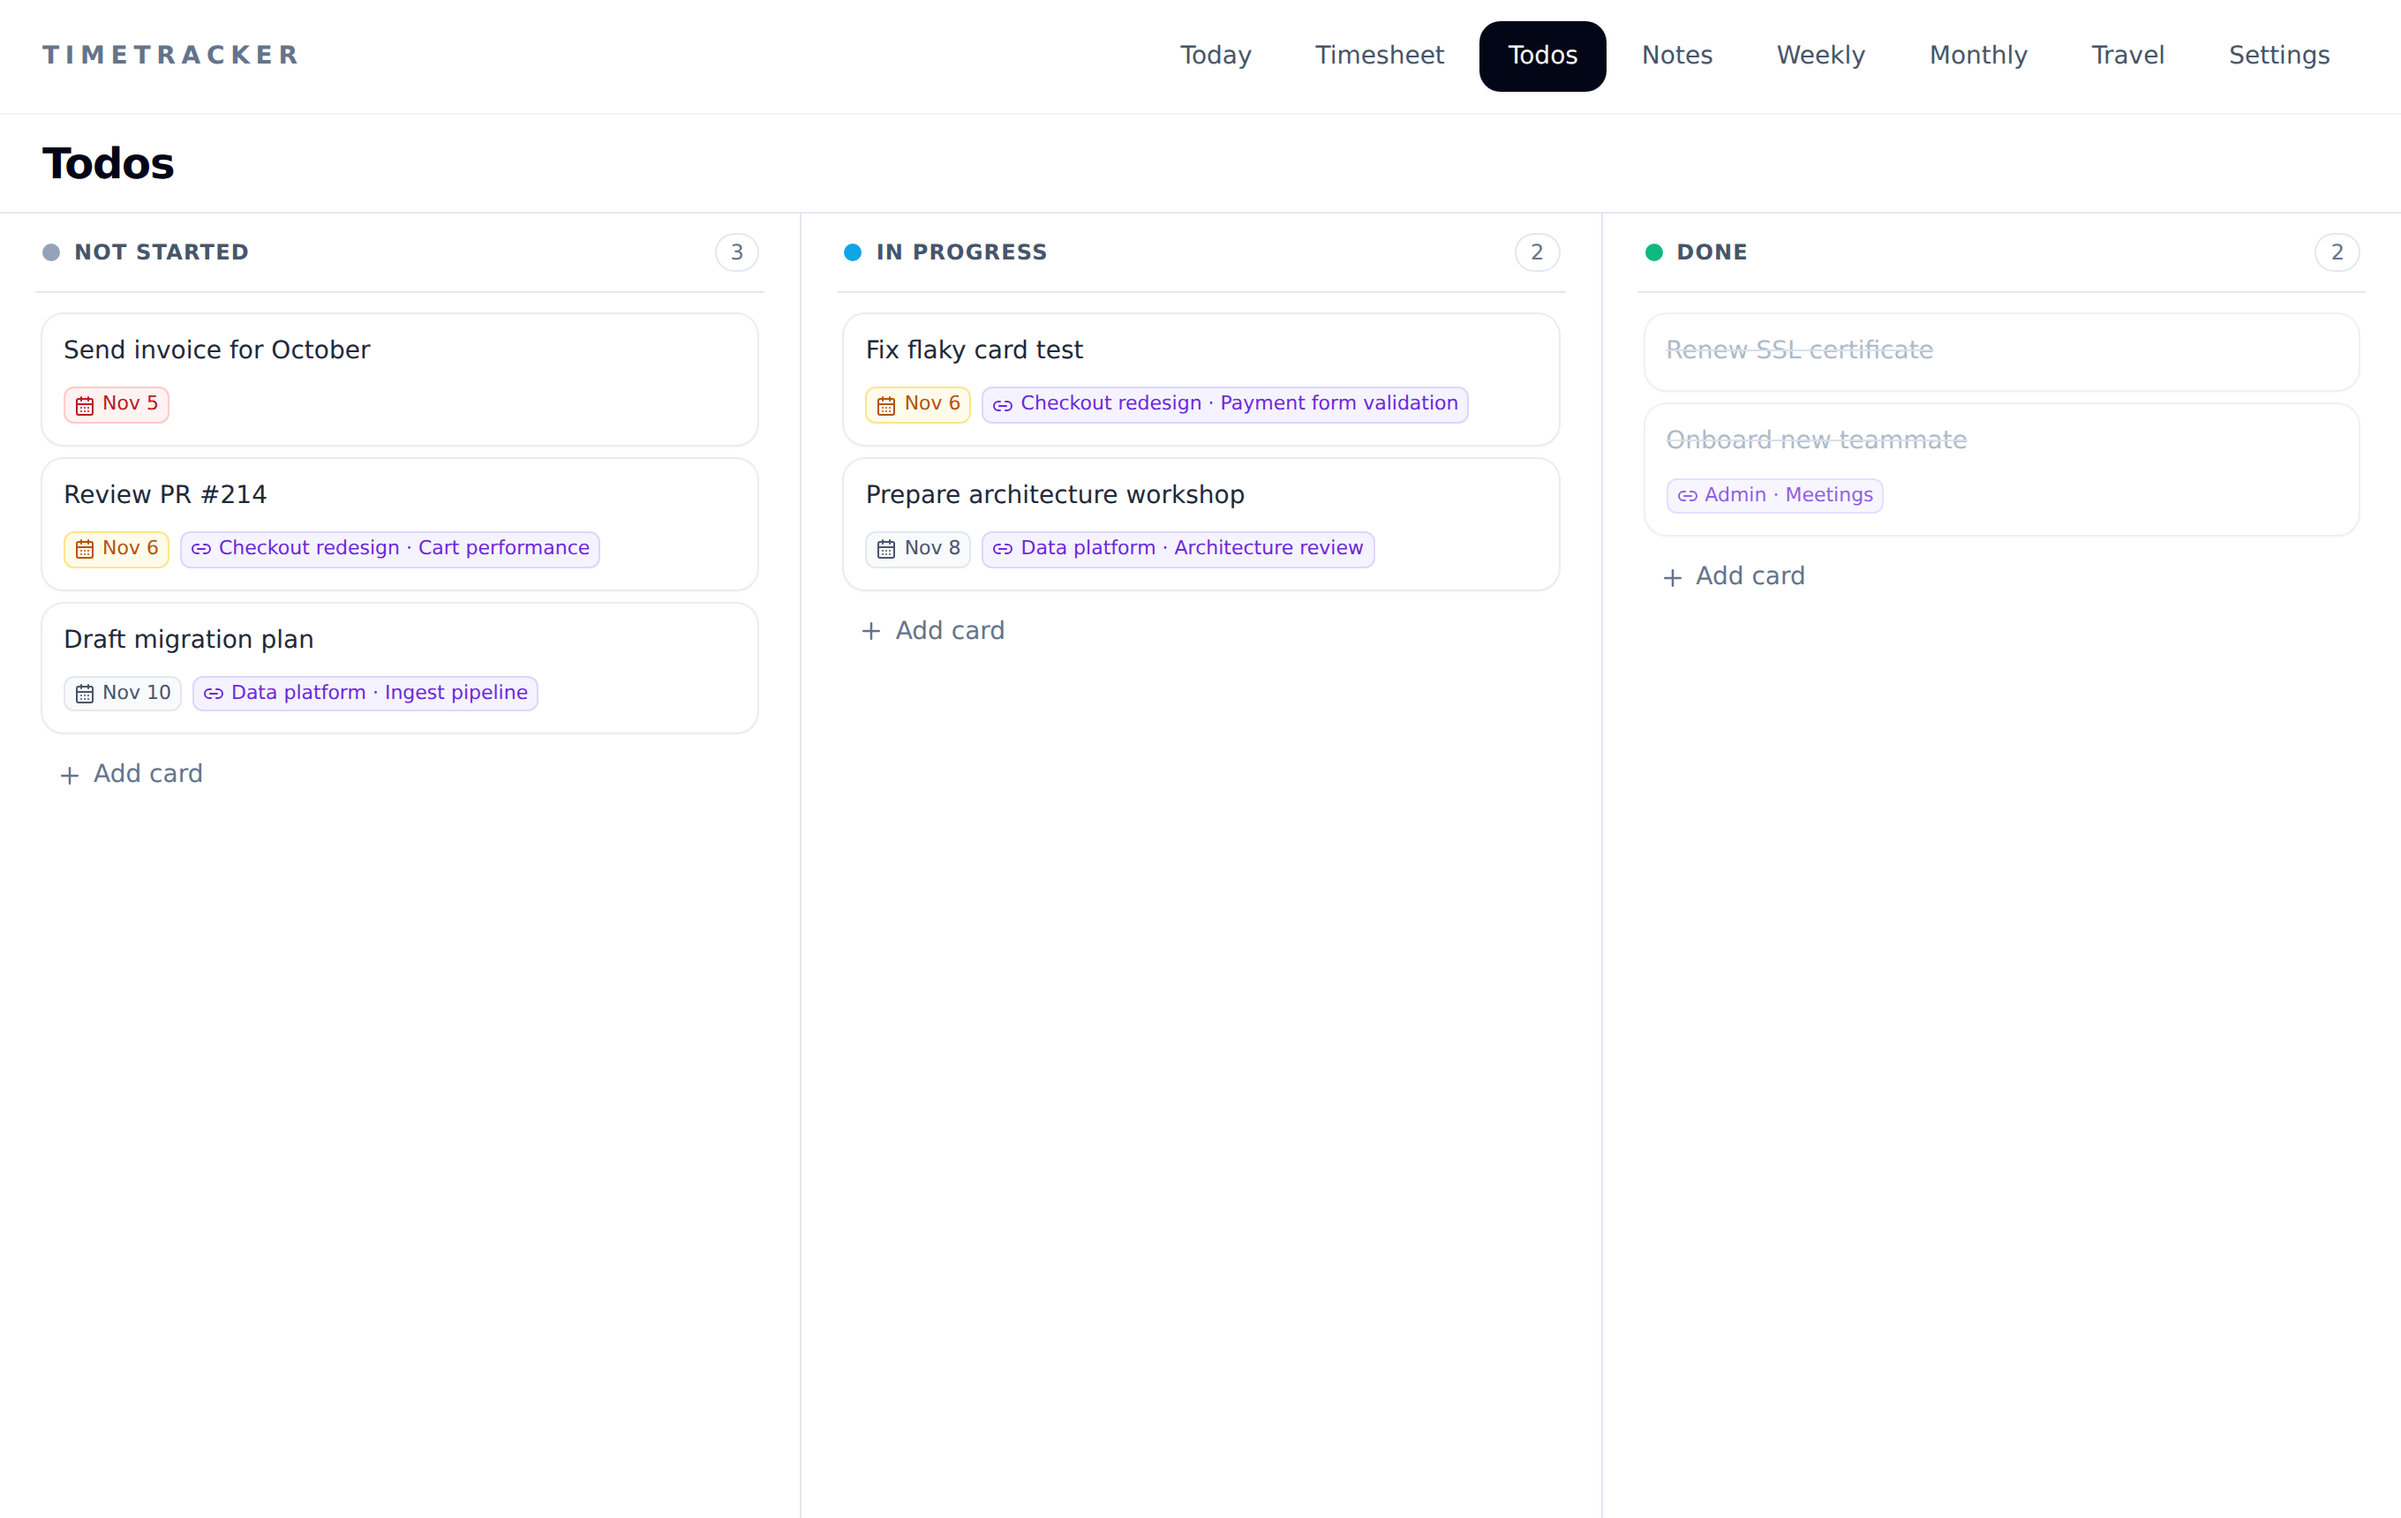
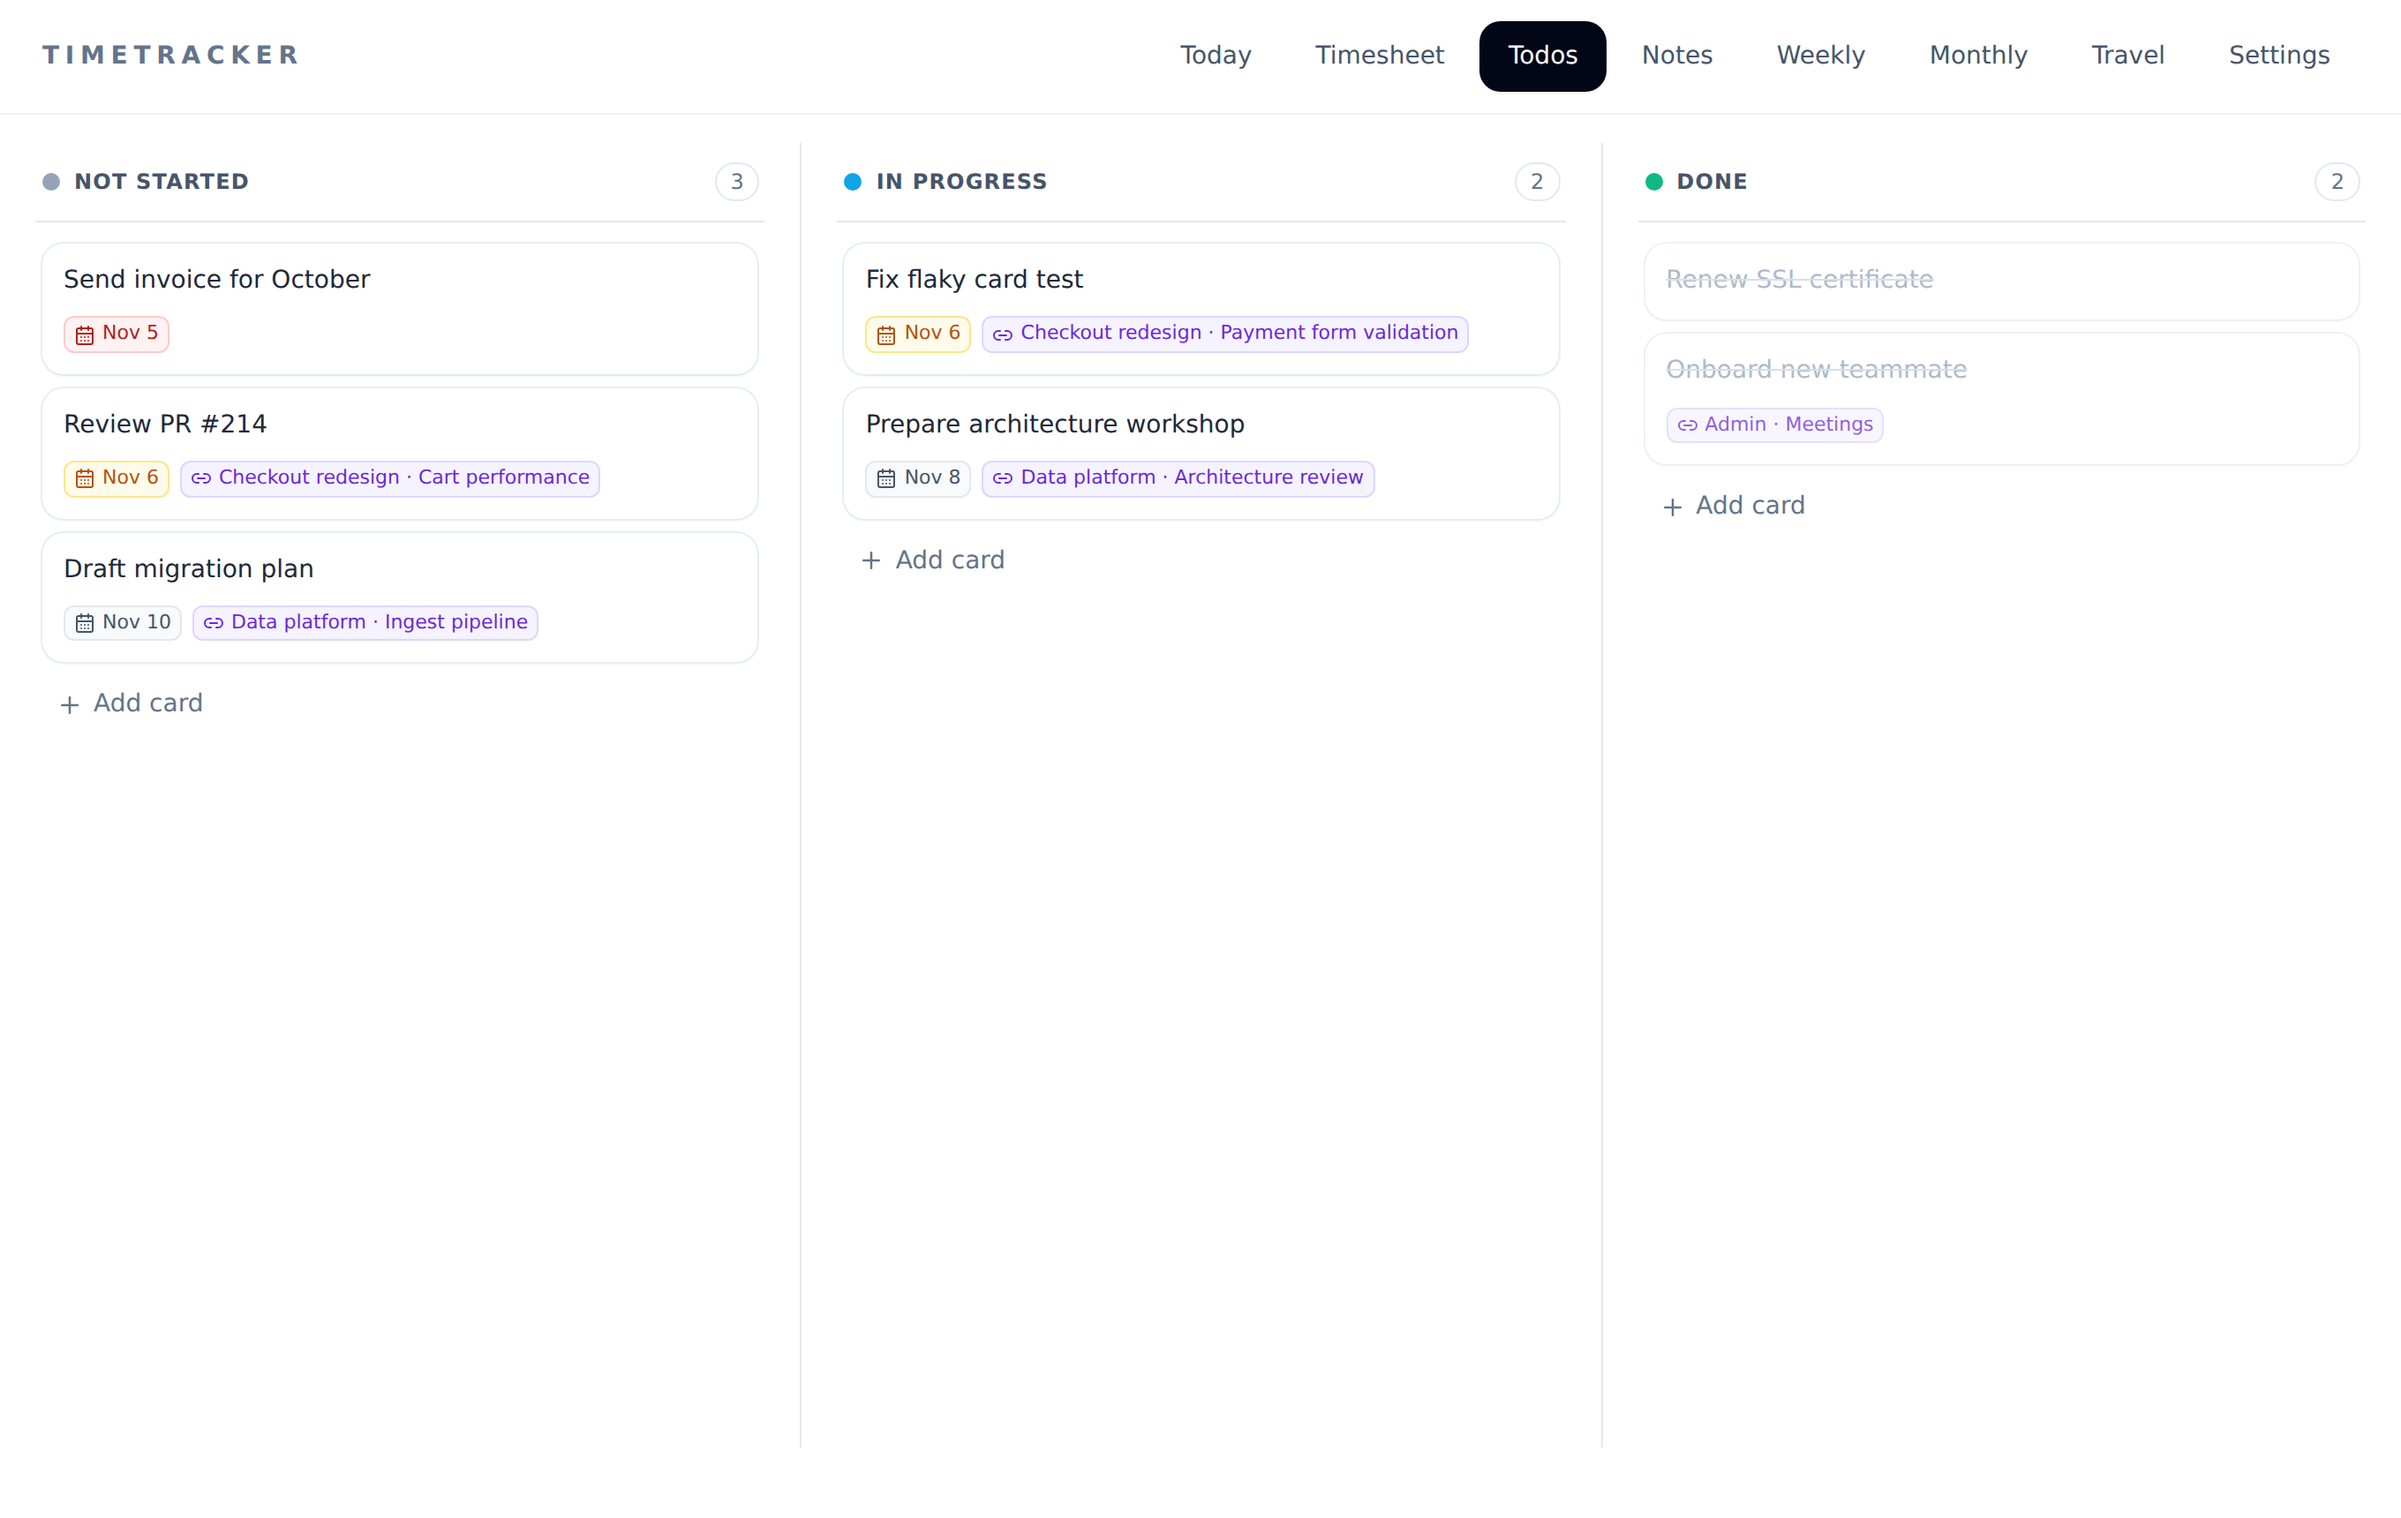
docs: refresh README screenshots without page headers

diff --git a/README.md b/README.md
@@ -34,7 +34,7 @@ Log time, create a todo or note, jump to any page, or search notes without touch
 
 ### Timesheet — every entry, editable inline
 
-Add, edit, and delete entries in place, with pickers for customer → project → issue. Filter by day, week, month, or a custom range; the header shows the period total.
+Add, edit, and delete entries in place, with pickers for customer → project → issue. Filter by day, week, month, or a custom range; the toolbar shows the period total.
 
 ![Timesheet](docs/screenshots/timesheet.png)
 
